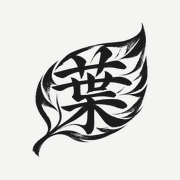
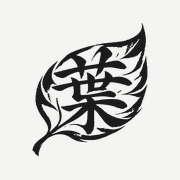
Draw the leaf from a traced vector and add a Back to top label
The seal, the essay end mark and the tab icons all use one vector leaf,
so they stay sharp on phones. The seal turns green on hover, and a small
Back to top label beside it appears once the page has been scrolled.

diff --git a/assets/site.css b/assets/site.css
@@ -7,6 +7,7 @@
   --underline: #c4c4c4;
   --code-bg: #eaeae8;
   --band: #000000;
+  --leaf: #4a6f34;     /* the leaf's green, shown when you hover the seal */
   --measure: 680px;
   --gutter: 24px;
   --serif: "Iowan Old Style", "Charter", "Bitstream Charter", "Sitka Text", Cambria, Georgia, serif;
@@ -22,6 +23,7 @@
   --rule: #2c2c2c;
   --underline: #5a5a5a;
   --code-bg: #1c1c1c;
+  --leaf: #8fb86c;
   color-scheme: dark;
 }
 
@@ -197,33 +199,55 @@ main { padding: 2.25rem 0 4rem; flex: 1 0 auto; }
 
 /* ---------- Footer ---------- */
 /* The 葉 leaf as a small seal at the foot of every page, the way a scroll
-   ends with the artist's seal. It's the leaf icon used as a stencil, so it
-   takes the text colour in light and dark mode. Clicking it goes back to the
-   top of the page; on hover it lifts a little, hinting at that. */
-.site-footer { display: flex; justify-content: center; padding-bottom: 2rem; }
+   ends with the artist's seal. It's drawn from leaf.svg (vector, so it's
+   sharp on any screen) in the text colour, light or dark. Clicking it goes
+   back to the top of the page. On hover the ink turns leaf green and the
+   leaf lifts a little. */
+.site-footer { display: flex; justify-content: center; padding-bottom: 1.75rem; }
 .seal {
-  display: block;
-  padding: 6px; /* a bigger target than the leaf itself */
+  display: flex;
+  align-items: center;
+  padding: 8px; /* a bigger target than the leaf itself */
   border: 0;
   border-radius: 4px;
   background: none;
   color: var(--text);
+  font: inherit;
   cursor: pointer;
-  transition: transform 200ms ease;
 }
-.seal::before {
-  content: "";
+.seal svg {
   display: block;
-  width: 24px;
-  height: 24px;
-  background-color: currentColor;
-  -webkit-mask: url("icon.svg") center / contain no-repeat;
-  mask: url("icon.svg") center / contain no-repeat;
+  width: 20px;
+  height: 20px;
+  fill: currentColor;
+  transition: color 250ms ease, transform 300ms ease;
 }
-.seal:hover { transform: translateY(-3px); }
 .seal:focus-visible { outline: 2px solid currentColor; outline-offset: 2px; }
+/* "Back to top" beside the leaf, shown only once the page has been scrolled
+   (head.html marks the very top of the page with .at-top). Leaf and label are
+   centred together; at the top the label folds away to nothing, so the leaf
+   alone is centred, and it widens as it fades in, so the leaf glides aside
+   rather than jumping. */
+.seal-label {
+  overflow: hidden;
+  max-width: 7em;
+  margin-left: 0.3rem;
+  white-space: nowrap;
+  color: var(--muted);
+  font-size: 0.75rem;
+  line-height: 1.4; /* room for the "p" below, since overflow is clipped */
+  transition: color 250ms ease, opacity 300ms ease, max-width 300ms ease,
+              margin-left 300ms ease, visibility 300ms;
+}
+.at-top .seal-label { max-width: 0; margin-left: 0; opacity: 0; visibility: hidden; }
+/* Hover only on devices with a real pointer, so a tap on a phone doesn't
+   leave the leaf green. */
+@media (hover: hover) {
+  .seal:hover svg { color: var(--leaf); transform: translateY(-1px); }
+  .seal:hover .seal-label { color: var(--text); }
+}
 @media (prefers-reduced-motion: reduce) {
-  .seal { transition: none; }
+  .seal svg, .seal-label { transition: none; }
 }
 
 /* ---------- Page transitions ----------
@@ -334,8 +358,8 @@ main { padding: 2.25rem 0 4rem; flex: 1 0 auto; }
   margin-left: 0.35em;
   vertical-align: -0.15em;
   background-color: currentColor;
-  -webkit-mask: url("icon.svg") center / contain no-repeat;
-  mask: url("icon.svg") center / contain no-repeat;
+  -webkit-mask: url("leaf.svg") center / contain no-repeat;
+  mask: url("leaf.svg") center / contain no-repeat;
 }
 
 /* ---------- Small screens ---------- */

diff --git a/_layouts/default.html b/_layouts/default.html
@@ -11,7 +11,10 @@
 {{ content }}
 </main>
 <footer class="site-footer">
-  <button class="seal" type="button" aria-label="Back to top" title="Back to top"></button>
+  <button class="seal" type="button" aria-label="Back to top">
+    <svg viewBox="0 0 1255 1255" aria-hidden="true" focusable="false"><use href="{{ '/assets/leaf.svg#leaf' | relative_url }}"></use></svg>
+    <span class="seal-label" aria-hidden="true">Back to top</span>
+  </button>
 </footer>
 <script>
   /* The leaf glides back to the top (without adding "#top" to the address):
